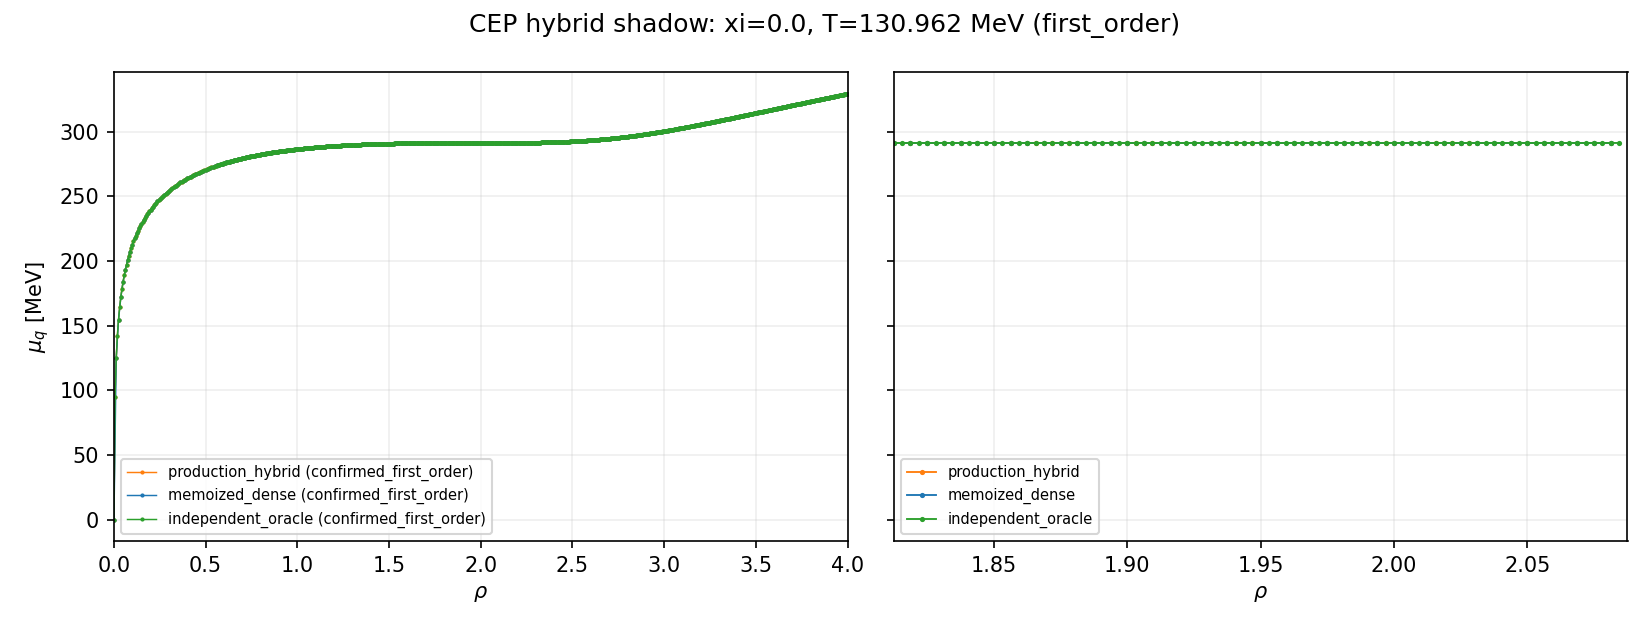
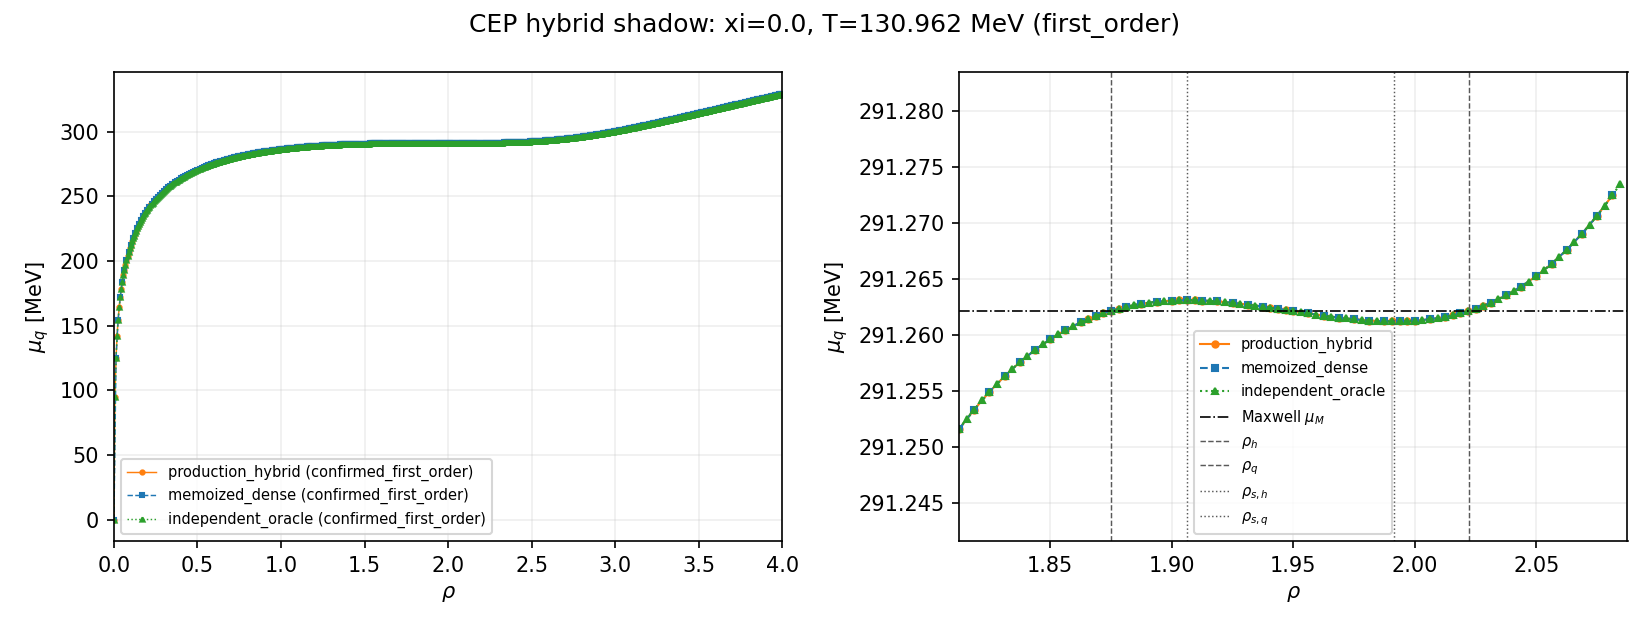
fix: make endpoint-local shadow plots auditable

diff --git a/scripts/analysis/plot_pnjl_cep_hybrid_production_shadow.py b/scripts/analysis/plot_pnjl_cep_hybrid_production_shadow.py
@@ -78,13 +78,54 @@ def _bounds(curve_rows: list[dict[str, str]], slice_rows: list[dict[str, str]], 
     return max(0.0, low - padding), min(4.0, high + padding)
 
 
-def _plot_anchor(output: Path, curve_rows: list[dict[str, str]], slice_rows: list[dict[str, str]], xi: str, temperature: float, reason: str) -> str:
+def _local_y_bounds(points: list[tuple[float, float]]) -> tuple[float, float]:
+    """Return an independently padded y range for the rho-local panel.
+
+    The full panel spans hundreds of MeV while CEP-local S-shape excursions
+    can be only a few hundredths of a MeV.  Sharing its y-axis would therefore
+    render the local curve as a horizontal line.  Keep a small absolute floor
+    so a nearly flat control remains inspectable without inventing a physical
+    tolerance.
+    """
+
+    values = [y for _, y in points if math.isfinite(y)]
+    if len(values) < 2:
+        return 0.0, 1.0
+    low, high = min(values), max(values)
+    padding = max((high - low) * 0.15, 0.01)
+    return low - padding, high + padding
+
+
+def _slice_row(slice_rows: list[dict[str, str]], xi: str, temperature: float) -> dict[str, str] | None:
+    for row in slice_rows:
+        if (
+            row.get("xi") == xi
+            and row.get("method") == "production_hybrid"
+            and math.isclose(_float(row.get("T_MeV")), temperature, abs_tol=CURVE_T_MATCH_TOL, rel_tol=0.0)
+        ):
+            return row
+    return None
+
+
+def _plot_anchor(
+    output: Path,
+    curve_rows: list[dict[str, str]],
+    slice_rows: list[dict[str, str]],
+    xi: str,
+    temperature: float,
+    reason: str,
+) -> dict[str, object]:
     import matplotlib.pyplot as plt
 
     subset = [row for row in curve_rows if row.get("xi") == xi and math.isclose(_float(row.get("T_MeV")), temperature, abs_tol=CURVE_T_MATCH_TOL, rel_tol=0.0)]
     low, high = _bounds(subset, slice_rows, xi, temperature)
-    fig, axes = plt.subplots(1, 2, figsize=(11, 4.2), sharey=True)
-    colors = {"production_hybrid": "tab:orange", "memoized_dense": "tab:blue", "independent_oracle": "tab:green"}
+    fig, axes = plt.subplots(1, 2, figsize=(11, 4.2), sharey=False)
+    styles = {
+        "production_hybrid": {"color": "tab:orange", "linestyle": "-", "marker": "o"},
+        "memoized_dense": {"color": "tab:blue", "linestyle": "--", "marker": "s"},
+        "independent_oracle": {"color": "tab:green", "linestyle": ":", "marker": "^"},
+    }
+    local_points: list[tuple[float, float]] = []
     for method in METHODS:
         points = sorted([row for row in subset if row.get("method") == method], key=lambda row: _float(row.get("rho")))
         finite = [(_float(row.get("rho")), _float(row.get("muq_MeV"))) for row in points]
@@ -93,17 +134,37 @@ def _plot_anchor(output: Path, curve_rows: list[dict[str, str]], slice_rows: lis
             continue
         x, y = zip(*finite)
         label = f"{method} ({_status(slice_rows, xi, temperature, method)})"
-        axes[0].plot(x, y, ".-", ms=2, lw=0.7, color=colors[method], label=label)
+        style = styles[method]
+        axes[0].plot(x, y, ms=2, lw=0.7, label=label, **style)
         zoom = [(xx, yy) for xx, yy in finite if low <= xx <= high]
         if zoom:
             zx, zy = zip(*zoom)
-            axes[1].plot(zx, zy, ".-", ms=3, lw=0.9, color=colors[method], label=method)
+            local_points.extend(zoom)
+            axes[1].plot(zx, zy, ms=3, lw=1.0, label=method, **style)
     axes[0].set_xlim(0.0, 4.0)
     axes[1].set_xlim(low, high)
+    local_y_low, local_y_high = _local_y_bounds(local_points)
+    axes[1].set_ylim(local_y_low, local_y_high)
     for axis in axes:
         axis.set_xlabel(r"$\rho$")
         axis.grid(alpha=0.2)
     axes[0].set_ylabel(r"$\mu_q$ [MeV]")
+    axes[1].set_ylabel(r"$\mu_q$ [MeV]")
+    axes[1].ticklabel_format(axis="y", style="plain", useOffset=False)
+    phase_row = _slice_row(slice_rows, xi, temperature)
+    if phase_row is not None:
+        mu_transition = _float(phase_row.get("mu_transition_MeV"))
+        if math.isfinite(mu_transition) and local_y_low <= mu_transition <= local_y_high:
+            axes[1].axhline(mu_transition, color="black", lw=0.8, ls="-.", label=r"Maxwell $\mu_M$")
+        for field, label in (
+            ("rho_hadron", r"$\rho_h$"),
+            ("rho_quark", r"$\rho_q$"),
+            ("rho_spinodal_hadron", r"$\rho_{s,h}$"),
+            ("rho_spinodal_quark", r"$\rho_{s,q}$"),
+        ):
+            density = _float(phase_row.get(field))
+            if math.isfinite(density) and low <= density <= high:
+                axes[1].axvline(density, color="0.35", lw=0.7, ls=":" if "spinodal" in field else "--", label=label)
     if axes[0].lines:
         axes[0].legend(fontsize=7, loc="best")
     if axes[1].lines:
@@ -113,7 +174,18 @@ def _plot_anchor(output: Path, curve_rows: list[dict[str, str]], slice_rows: lis
     filename = f"rho_mu_xi_{xi.replace('.', 'p').replace('-', 'm')}_T_{temperature:g}_{reason}.png"
     fig.savefig(output / filename, dpi=150)
     plt.close(fig)
-    return filename
+    return {
+        "file": filename,
+        "xi": xi,
+        "T_MeV": temperature,
+        "reason": reason,
+        "full_xlim": [0.0, 4.0],
+        "local_xlim": [low, high],
+        "local_ylim": [local_y_low, local_y_high],
+        "local_curve_mu_span_MeV": max((y for _, y in local_points), default=math.nan)
+        - min((y for _, y in local_points), default=math.nan),
+        "right_panel_policy": "independent_rho_mu_zoom_with_phase_markers_v2",
+    }
 
 
 def main() -> int:
@@ -141,8 +213,7 @@ def main() -> int:
     curve_rows, slice_rows = _rows(curve_path), _rows(slice_path)
     figures = []
     for xi, temperature, reason in _select_anchors(slice_rows):
-        filename = _plot_anchor(args.output_dir, curve_rows, slice_rows, xi, temperature, reason)
-        figures.append({"file": filename, "xi": xi, "T_MeV": temperature, "reason": reason})
+        figures.append(_plot_anchor(args.output_dir, curve_rows, slice_rows, xi, temperature, reason))
     schema = "cep_cascade_production_shadow_v2"
     aggregate_manifest = args.input_dir / "manifest.json"
     if aggregate_manifest.is_file():
@@ -153,6 +224,11 @@ def main() -> int:
     manifest = {
         "schema_version": schema,
         "source_sha256": {"curve_points.csv": hashlib.sha256(curve_path.read_bytes()).hexdigest(), "slice_metrics.csv": hashlib.sha256(slice_path.read_bytes()).hexdigest()},
+        "plot_policy": {
+            "full_panel": "rho_0_to_4_with_shared_method_styles",
+            "local_panel": "independent_rho_mu_zoom_with_phase_markers_v2",
+            "local_y_axis_is_independent": True,
+        },
         "figures": figures,
     }
     for figure in figures:

diff --git a/tests/unit/python/test_import_pnjl_cep_endpoint_local_shadow_evidence.py b/tests/unit/python/test_import_pnjl_cep_endpoint_local_shadow_evidence.py
@@ -2,6 +2,7 @@ import csv
 import hashlib
 import importlib.util
 import json
+import shutil
 from pathlib import Path
 
 import pytest
@@ -120,3 +121,24 @@ def test_import_rejects_unexpected_nan_sentinel(tmp_path):
     (source / "method_costs.csv").write_text("name,value\nmethod_costs.csv,NaN\n", encoding="utf-8")
     with pytest.raises(ValueError, match="unexpected NaN sentinel"):
         module._validate_derived_tables(source)
+
+
+def test_import_accepts_solver_free_replot_directory(tmp_path):
+    module = _module()
+    source = _source(tmp_path)
+    replot = tmp_path / "replot"
+    replot.mkdir()
+    shutil.copy2(source / "figures" / "example.png", replot / "example.png")
+    curve_sha = hashlib.sha256((source / "curve_points.csv").read_bytes()).hexdigest()
+    figure_sha = hashlib.sha256((replot / "example.png").read_bytes()).hexdigest()
+    (replot / "plot_manifest.json").write_text(json.dumps({
+        "schema_version": "cep_maxwell_endpoint_local_production_shadow_v4",
+        "source_sha256": {"curve_points.csv": curve_sha},
+        "plot_policy": {"local_panel": "independent_rho_mu_zoom_with_phase_markers_v2"},
+        "figures": [{"file": "example.png", "xi": "0.0", "T_MeV": 5.0, "reason": "test", "sha256": figure_sha}],
+    }), encoding="utf-8")
+    output = tmp_path / "evidence"
+    manifest = module.import_evidence(source, output, "789", figure_input_dir=replot)
+    assert manifest["plot_policy"]["local_panel"] == "independent_rho_mu_zoom_with_phase_markers_v2"
+    plot_manifest = json.loads((output / "figures" / "plot_manifest.json").read_text(encoding="utf-8"))
+    assert plot_manifest["source_curve_sha256"] == curve_sha

diff --git a/tests/unit/python/test_plot_pnjl_cep_hybrid_production_shadow.py b/tests/unit/python/test_plot_pnjl_cep_hybrid_production_shadow.py
@@ -1,0 +1,33 @@
+import importlib.util
+from pathlib import Path
+
+
+ROOT = Path(__file__).resolve().parents[3]
+SCRIPT = ROOT / "scripts" / "analysis" / "plot_pnjl_cep_hybrid_production_shadow.py"
+
+
+def _module():
+    spec = importlib.util.spec_from_file_location("cep_hybrid_plotter", SCRIPT)
+    assert spec is not None and spec.loader is not None
+    module = importlib.util.module_from_spec(spec)
+    spec.loader.exec_module(module)
+    return module
+
+
+def test_local_y_bounds_preserve_weak_s_shape_scale():
+    module = _module()
+    low, high = module._local_y_bounds([(1.8, 291.2516), (1.9, 291.2622), (2.0, 291.2735)])
+    assert high - low < 0.05
+    assert low < 291.2516 < 291.2735 < high
+
+
+def test_local_y_bounds_has_finite_fallback_for_missing_points():
+    module = _module()
+    assert module._local_y_bounds([]) == (0.0, 1.0)
+
+
+def test_slice_row_matches_serialized_temperature():
+    module = _module()
+    rows = [{"xi": "0.0", "method": "production_hybrid", "T_MeV": "130.9619140625"}]
+    row = module._slice_row(rows, "0.0", 130.9619140625)
+    assert row is rows[0]

diff --git a/docs/analysis/pnjl_cep_endpoint_local_production_shadow_v4/AUDIT.md b/docs/analysis/pnjl_cep_endpoint_local_production_shadow_v4/AUDIT.md
@@ -7,6 +7,8 @@
 - 派生表中的 `NaN` 仅出现在 schema 明确允许的“不适用字段”（例如单调切片没有
   Maxwell 端点）；所有 `Inf` 及未声明的 NaN 均拒绝；
 - 三个 endpoint certificates 的 support envelope 均覆盖初始 left bracket 与 anchor；
+- 代表图的右侧面板使用独立的 `rho–mu` 局部纵轴，并标出 Maxwell/spinodal/coexistence
+  位置；该图层修正只改变后处理，不改变原始曲线或数值 gate；
 - gate verdict: `full_hybrid_candidate`；所有 oracle/classification/
   endpoint/coverage/performance errors 为空；
[1 lines of base64/hex data omitted]
